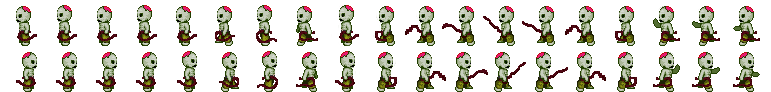
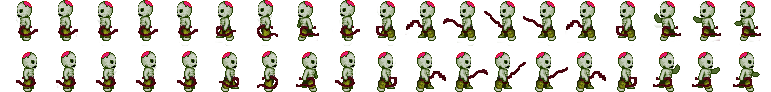
player update

Changed region(s): [[0.0, 0.0, 0.9961, 0.5], [0.0623, 0.5435, 0.2179, 0.7609]]

diff --git a/player.js b/player.js
@@ -1,101 +1,175 @@
-var LEFT = 0;
+var LEFT = 0
 var RIGHT = 1;
 
+var ANIM_IDLE_LEFT = 0;
+var ANIM_JUMP_LEFT = 1;
+var ANIM_WALK_LEFT = 2;
+var ANIM_SHOOT_LEFT = 3;
+var ANIM_MELEE_LEFT = 4;
+var ANIM_IDLE_RIGHT = 5;
+var ANIM_JUMP_RIGHT = 6;
+var ANIM_WALK_RIGHT = 7;
+var ANIM_SHOOT_RIGHT = 8;
+var ANIM_MELEE_RIGHT = 9;
+var ANIM_MAX = 10;
 
 var Player = function() {
-	this.image = document.createElement("img");
-	//Vector should work no matter what now
+    this.sprite = new Sprite("player.png");
+    this.sprite.buildAnimation(19, 2, 40, 49, 0.3, [0, 1, 2, 3]);
+    this.sprite.buildAnimation(19, 2, 40, 49, 0.3, [0,1,2,3]);
+    this.sprite.buildAnimation(19, 2, 40, 49, 0.3, [4,5,6,7]);
+    this.sprite.buildAnimation(19, 2, 40, 49, 0.5, [16,17,18]);
+    this.sprite.buildAnimation(19, 2, 40, 49, 0.3, [8,9,10,11,12,13,14,15]);
+    this.sprite.buildAnimation(19, 2, 40, 49, 0.3, [19,20,21,22]);
+    this.sprite.buildAnimation(19, 2, 40, 49, 0.3, [19,20,21,22]);
+    this.sprite.buildAnimation(19, 2, 40, 49, 0.3, [23,24,25,26]);
+    this.sprite.buildAnimation(19, 2, 40, 49, 0.5, [35,36,37]);
+    this.sprite.buildAnimation(19, 2, 40, 49, 0.3, [27,28,29,30,31,32,33,34]);
+    
+
+    for (var i = 0; i < ANIM_MAX; i++) {
+        this.sprite.setAnimationOffset(i, -1, -1);
+    }
+
     this.position = new Vector2();
-    this.position.Set = (9 * TILE, 0 * TILE);
+    this.position.set = (9 * TILE, 0 * TILE);
 
     this.width = 15;
     this.height = 40;
-    
-    this.offset = new Vector2();
-    this.offset.Set(-55.-87);
 
     this.velocity = new Vector2();
-    this.cooldownTimer = 0;
-    this.velocity.Set(0, 0);
 
     this.falling = true;
     this.jumping = false;
+
+    this.direction = LEFT;
     
-    this.image.src = "player1.png"
-	this.direction = RIGHT;
+    this.cooldownTimer = 0;
 
 };
 
 Player.prototype.update = function(deltaTime) {
-	// this.sprite.update(deltaTime);
+    this.sprite.update(deltaTime);
 
     var left = false;
     var right = false;
     var jump = false;
+    var shooting = false;
     
+
+    if (keyboard.isKeyDown(keyboard.KEY_LEFT) == true) {
+        left = true;
+        this.direction = LEFT;
+        if (this.sprite.currentAnimation != ANIM_WALK_LEFT && this.jumping == false) {
+            this.sprite.setAnimation(ANIM_WALK_LEFT);
+        }
+
+    }
+    else if (keyboard.isKeyDown(keyboard.KEY_RIGHT) == true) {
+        right = true;
+        this.direction = RIGHT;
+        if (this.sprite.currentAnimation != ANIM_WALK_RIGHT && this.jumping == false) {
+            this.sprite.setAnimation(ANIM_WALK_RIGHT);
+        }
+    }
+    else {
+        if (this.jumping == false && this.falling == false) {
+            if (this.direction == LEFT) {
+                if (this.sprite.currentAnimation != ANIM_IDLE_LEFT)
+                    this.sprite.setAnimation(ANIM_IDLE_LEFT);
+            }
+            else {
+                if (this.sprite.currentAnimation != ANIM_IDLE_RIGHT) {
+                    this.sprite.setAnimation(ANIM_IDLE_RIGHT);
+                }
+
+            } 
+        }
+    }
+    if (keyboard.isKeyDown(keyboard.KEY_UP) == true) {
+        jump = true;
+        if (left == true) {
+            this.sprite.setAnimation(ANIM_JUMP_LEFT);
+        }
+        if (right == true) {
+            this.sprite.setAnimation(ANIM_JUMP_RIGHT);
+        }
+         sfxJump.play()
+        
+    }
     
-   if(keyboard.isKeyDown(keyboard.KEY_LEFT) == true){
-      left = true;
-		this.direction = LEFT;
-  }
-  if(keyboard.isKeyDown(keyboard.KEY_RIGHT) == true){
-      right = true;
-      	this.direction = RIGHT;
-  }
-  if(keyboard.isKeyDown(keyboard.KEY_SPACE) == true){
-      jump = true;
-  }
-  
-	if(this.cooldownTimer>0)
-	{
-		this.cooldownTimer -= deltaTime;
-	}
-	//console.log(this.cooldownTimer)
-	if(keyboard.isKeyDown(keyboard.KEY_SHIFT) == true && this.cooldownTimer <= 0)
+    /*else {
+        if (this.shooting)
+    }
+            
+      if(keyboard.isKeyDown(keyboard.KEY_SHIFT) == true && this.cooldownTimer <= 0 )
 	{
 
-		this.cooldownTimer = 0.3;
+		this.cooldownTimer >= 0.3;
 		// Shoot a bullet
 		
 		bullets.push(new Bullet(this.position.x,this.position.y,this.direction))
+		if(this.direction == LEFT)
+		{
+			this.sprite.setAnimation(ANIM_SHOOT_LEFT)	
+		}
+		else if(this.direction == RIGHT)
+		{
+			this.sprite.setAnimation(ANIM_SHOOT_RIGHT)	
+		}
+ }
 
-	}
+ 
+    if(keyboard.isKeyDown(keyboard.KEY_E) == true)
+    {
+        if(this.direction == LEFT)
+        {
+            this.sprite.setAnimation(ANIM_MELEE_LEFT)
+        }
+        else if(this.direction == RIGHT)
+        {
+            this.sprite.setAnimation(ANIM_MELEE_RIGHT)
+        }
+    }*/
+    
+    
+    var wasleft = this.velocity.x < 0;
+    var wasright = this.velocity.x > 0;
+    var falling = this.falling;
+    var ddx = 1;
+    var ddy = GRAVITY;
 
-  var wasleft = this.velocity.x < 0;
-  var wasright = this.velocity.x > 0;
-  var falling = this.falling;
-  var ddx = 0;
-  var ddy = GRAVITY;
-  
-  if(left)
-  ddx = ddx - ACCEL;
-  else if (wasleft)
-  ddx = ddx + FRICTION;
-  
-  
-  if(right)
-  ddx = ddx + ACCEL;
-  else if (wasright)
-  ddx = ddx - FRICTION;
+    if (left)
+        ddx = ddx - ACCEL;
+    else if (wasleft)
+        ddx = ddx + FRICTION; 
 
-  if ( jump && !this.jumping && !falling)
-  {
-      ddy = ddy - JUMP;
-      sfxJump.play();	
-      this.jumping = true;
-  }
+    if (right)
+        ddx = ddx + ACCEL;
+    else if (wasright)
+        ddx = ddx - FRICTION;
+
+    if (jump && !this.jumping && !falling) {
+        ddy = ddy - JUMP;
+        this.jumping = true;
+        if (this.direction == LEFT) {
+            this.sprite.setAnimation(ANIM_JUMP_LEFT)
+        }
+        else {
+            this.sprite.setAnimation(ANIM_JUMP_RIGHT)
+        }
+
+    }
 
     this.position.y = Math.floor(this.position.y + (deltaTime * this.velocity.y));
     this.position.x = Math.floor(this.position.x + (deltaTime * this.velocity.x));
 
     this.velocity.x = bound(this.velocity.x + (deltaTime * ddx), -MAXDX, MAXDX);
     this.velocity.y = bound(this.velocity.y + (deltaTime * ddy), -MAXDY, MAXDY);
-    
+
     if ((wasleft && (this.velocity.x > 0)) ||
-    (wasright && (this.velocity.x < 0)))
-    
-    {
-        this.velocity.x = 0
+        (wasright && (this.velocity.x < 0))) {
+        this.velocity.x = 0;
     }
 
     var tx = pixelToTile(this.position.x);
@@ -140,13 +214,8 @@ Player.prototype.update = function(deltaTime) {
         }
 
     }
-
 }
 
 Player.prototype.draw = function() {
- 	//context.save();
-	//context.translate(this.position.x, this.position.y);
-	//context.rotate(this.rotation);
-	context.drawImage(this.image, this.position.x -worldOffsetX, this.position.y );
-	//context.restore();
-}
+    this.sprite.draw(context, this.position.x, this.position.y);
+} 
